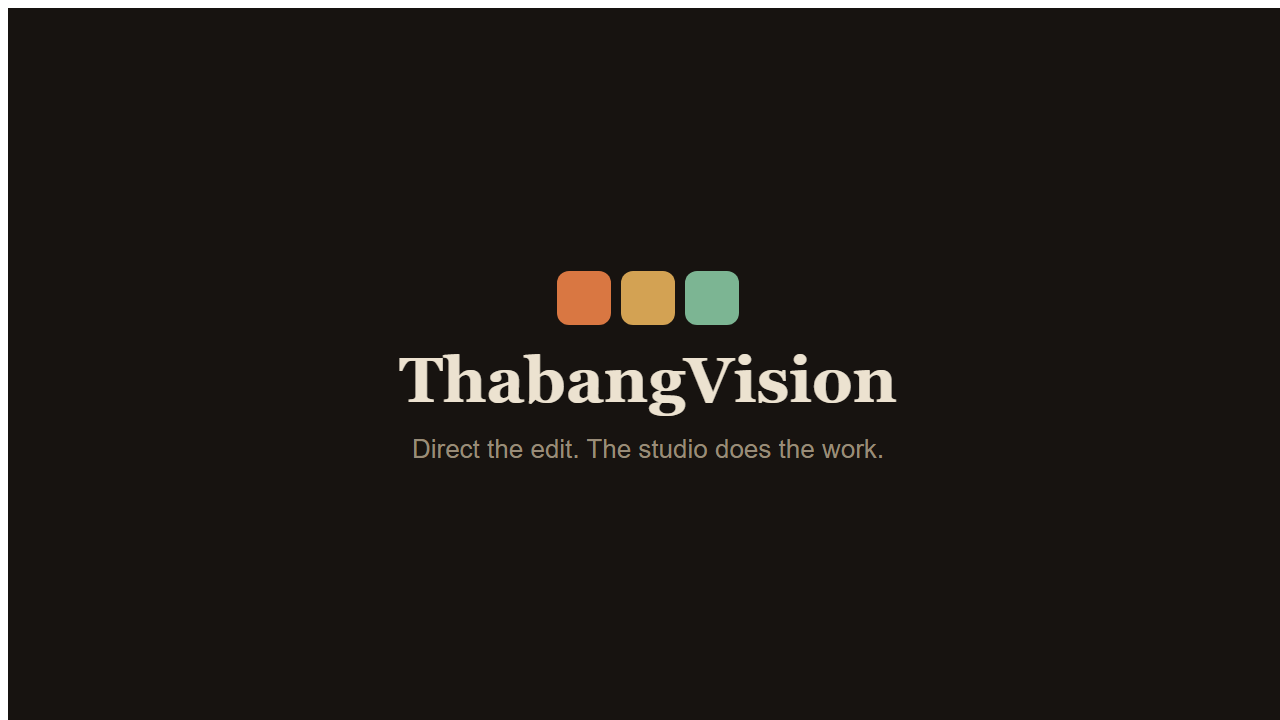
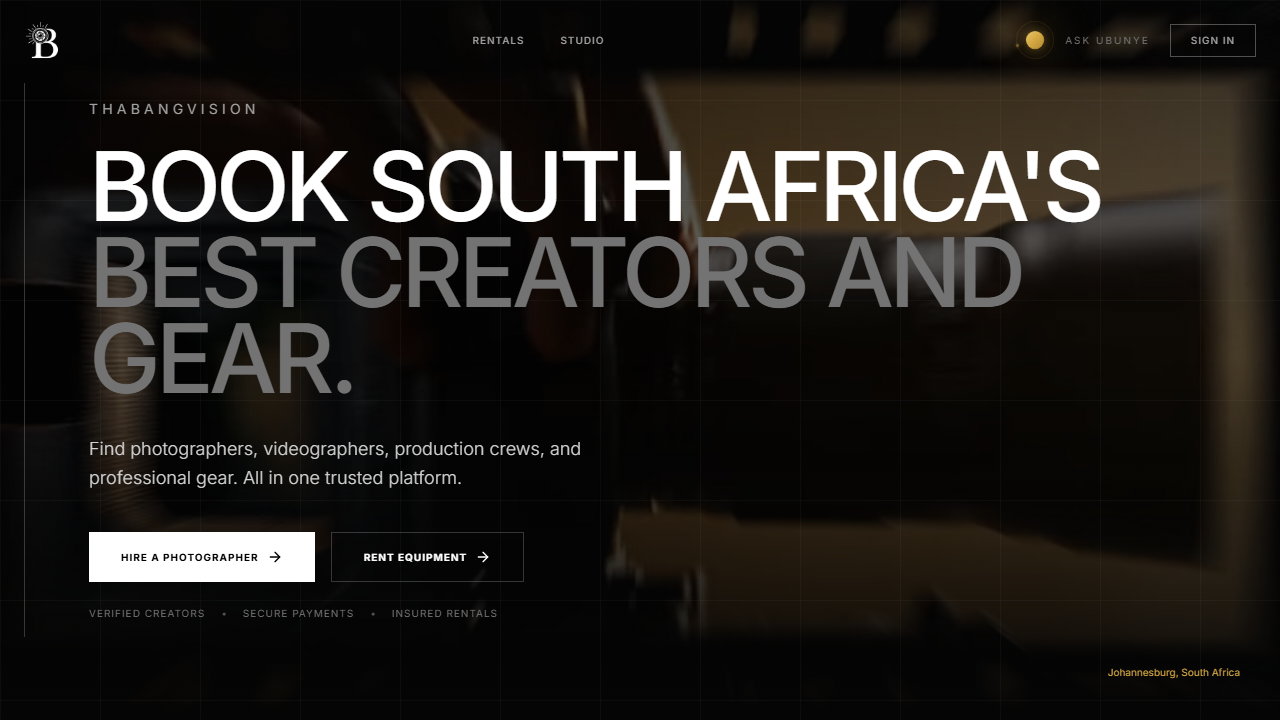
ThabangVision card: the live marketplace at thabangvision.com, not the studio
Book South Africa's creators and gear: verified photographers and crews,
equipment rentals, secure payments, and the Ask Ubunye assistant. The card
image is the real homepage and the card links to the live product.

Claude-Session: https://claude.ai/code/session_01E55iQGmScnkLqrNDEJaKT3

diff --git a/lib/data.ts b/lib/data.ts
@@ -140,14 +140,15 @@ export const PROJECTS: Project[] = [
   // Building now
   {
     slug: 'thabangvision',
-    title: 'ThabangVision Studio',
+    title: 'ThabangVision',
     category: 'building-now',
     building: true,
-    problem: 'Editing video and photos is hours of manual timeline work. And the new AI editing tools generate first and check never, so you cannot trust what comes out.',
-    solution: 'An AI native video and photo studio where you direct the edit in plain language and an agent does the cutting, colour and layout, then verifies its own work before showing you. For creators and small studios who have footage and a story but not a post production team.',
-    impact: 'In active development for Windows. The one non negotiable design rule: the editor must check its own output the way an engineer checks a build.',
-    skills: ['TypeScript', 'Python', 'PyTorch'],
+    problem: "South Africa is full of talented photographers, videographers and crews, but booking them runs on DMs and luck. Clients cannot tell who is real, and creators with professional gear earn nothing from it on idle days.",
+    solution: "A marketplace to book South Africa's creators and gear. Verified photographers, videographers and production crews, equipment rentals with real time availability, secure payments with deposit protection, and an AI assistant, Ask Ubunye, that matches you to the right creator. For anyone with a shoot to book, and every creator with skills or equipment to earn from.",
+    impact: 'Live at thabangvision.com: verified creators, gear rentals from R500 a day, and secure payments through PayFast and Paystack. Growing the creator community now.',
+    skills: ['Next.js', 'TypeScript', 'PostgreSQL', 'AI'],
     image: '/projects/thabangvision.png',
+    productLink: 'https://thabangvision.com',
   },
   {
     slug: 'sekhoto-multiversity',